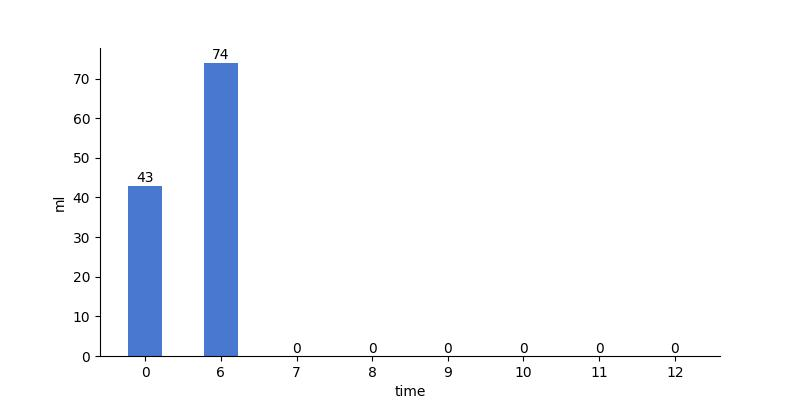
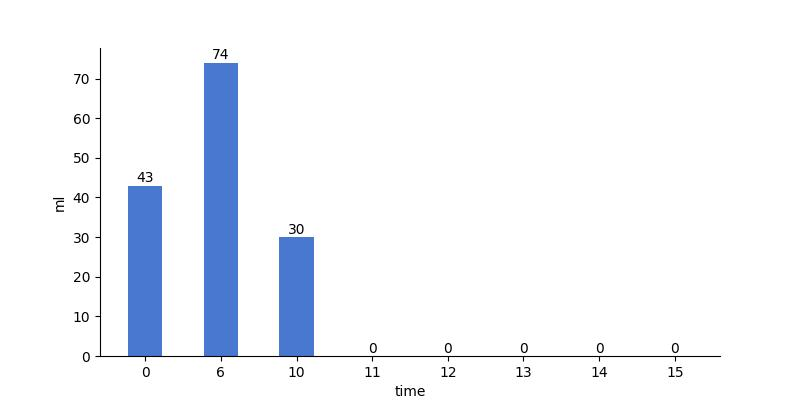
update

diff --git a/README.md b/README.md
@@ -5,12 +5,12 @@
 
 | 今日总饮水量 | 每小时平均饮水量 |
 | :----: | :----: |
-| 117 | 58 |
+| 147 | 49 |
 </div>
 
-| 日期 | 00:01:42 | 00:29:31 | 06:44:40 |
-| :----: | :----: | :----: | :----: |
-| 2022-03-21 | 11 | 32 | 74 |
+| 日期 | 00:01:42 | 00:29:31 | 06:44:40 | 10:03:52 |
+| :----: | :----: | :----: | :----: | :----: |
+| 2022-03-21 | 11 | 32 | 74 | 30 |
 
 # 近30日饮水数据
 
